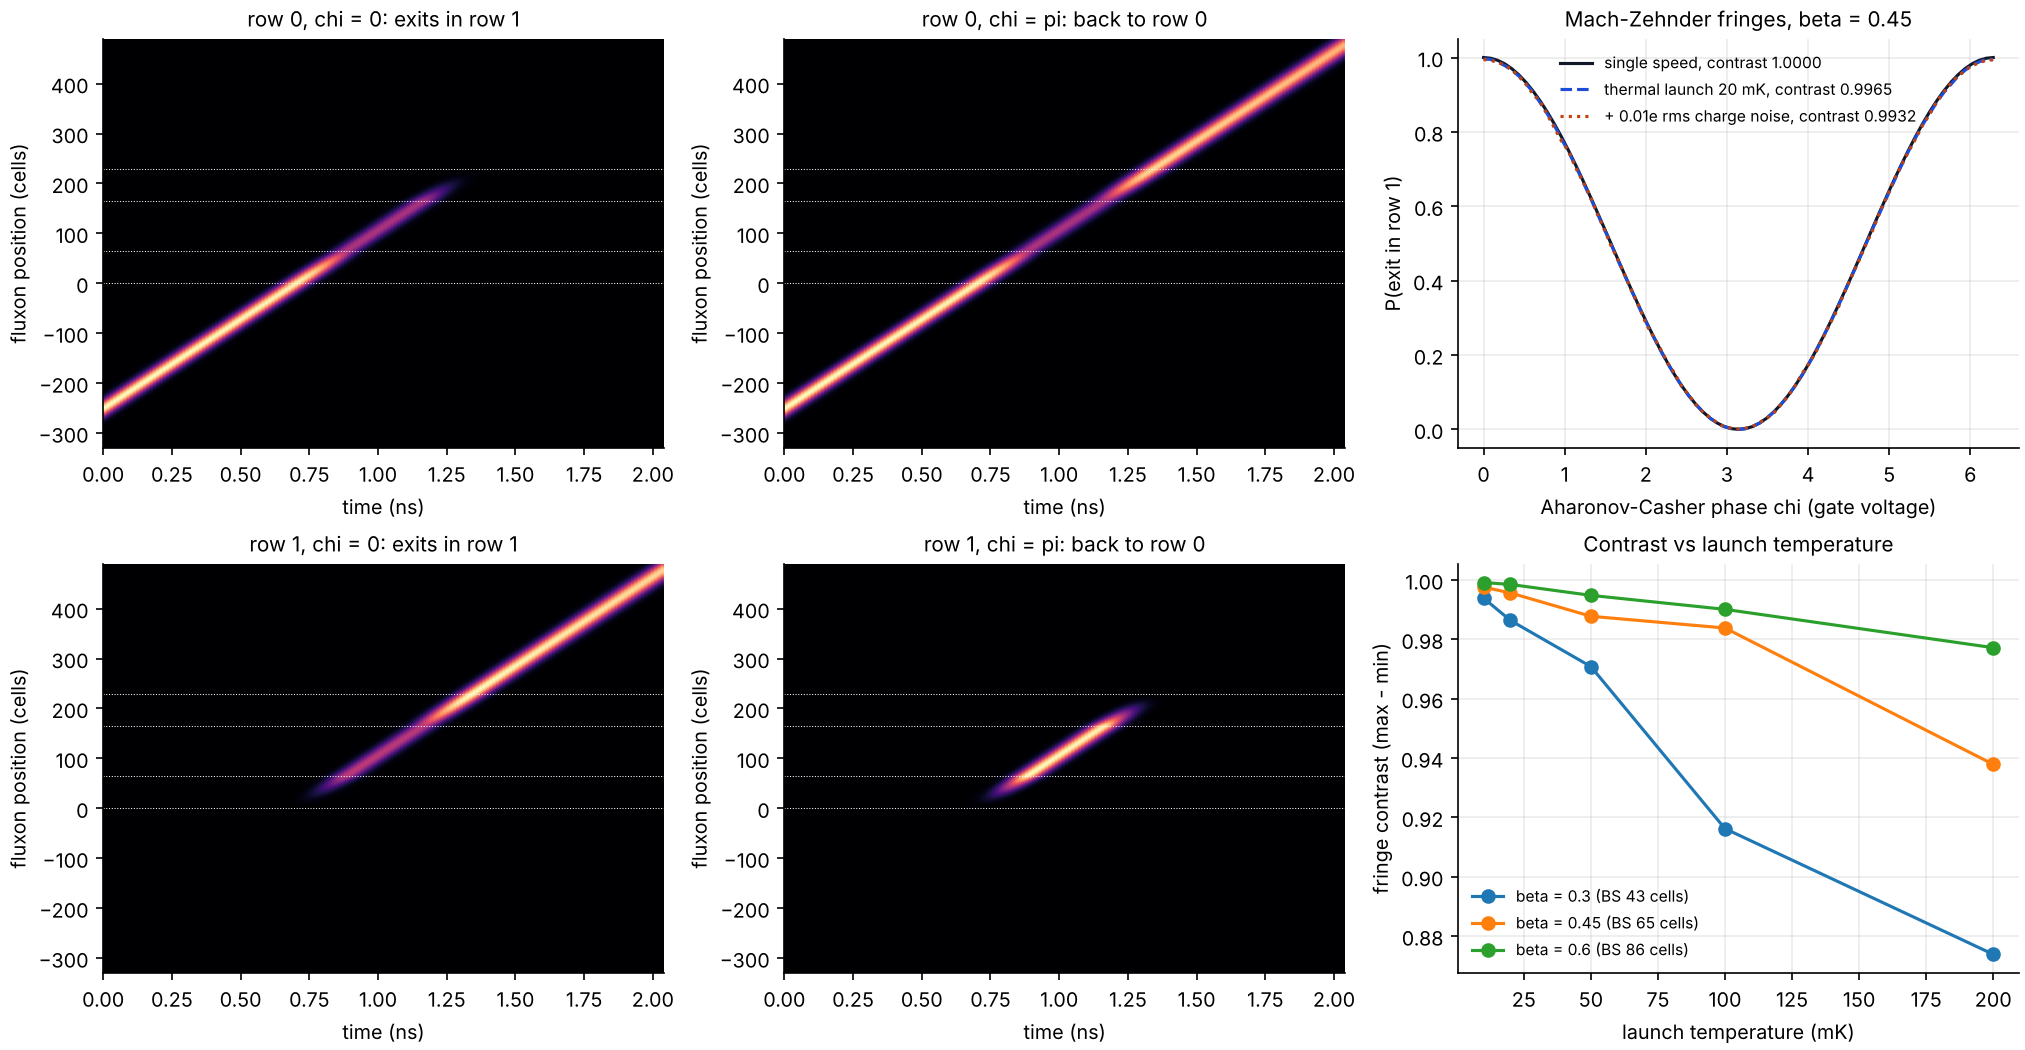
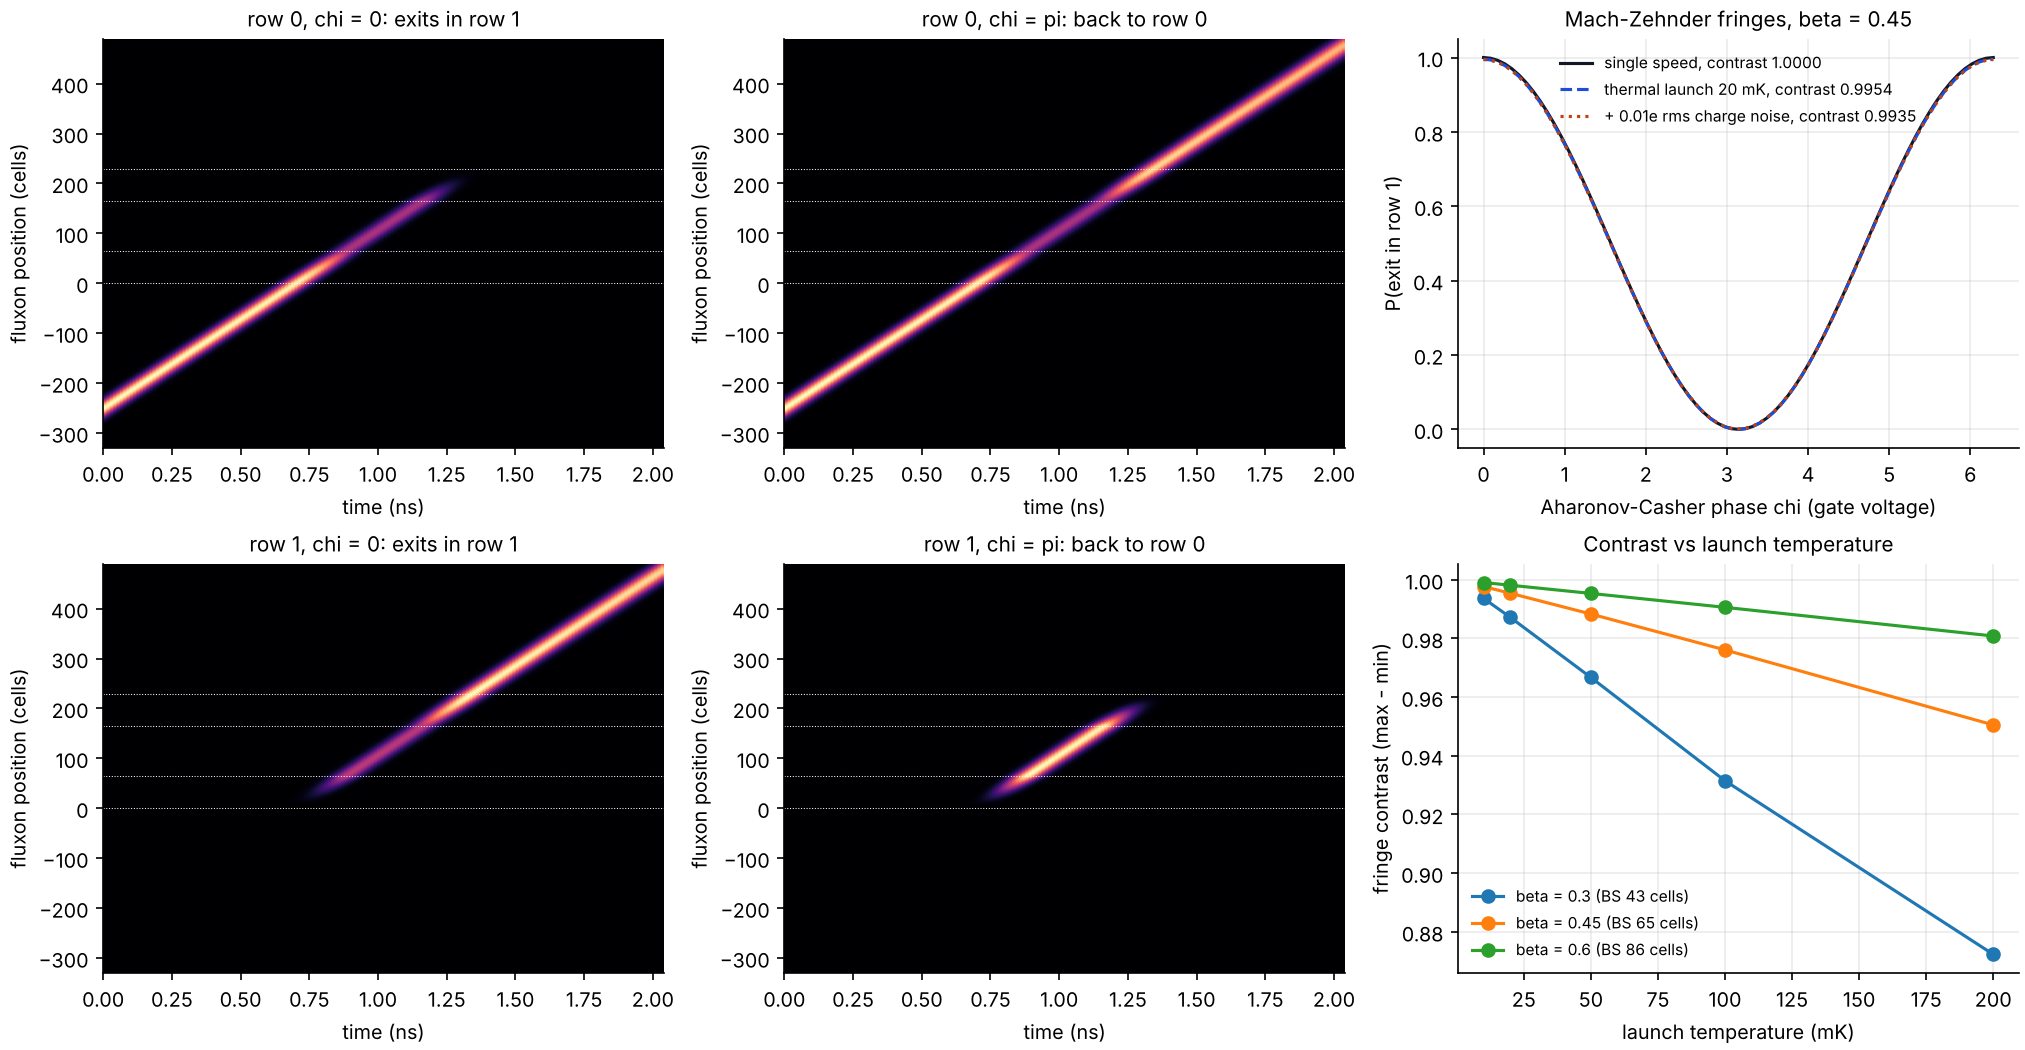
QBF-X2 companion 2: exact quadrature for the router fringe contrast
The thermal (and charge-noise) averages of the Mach-Zehnder fringes used a
60-80 sample Monte Carlo, whose sampling error (~1e-3) made the quoted 20 mK
contrast 0.9965 while the contrast-vs-temperature scan gave 0.9956 at the
same point. Both now use Gauss-Hermite quadrature (16 speed x 8 charge-noise
nodes; the dropped non-physical weight is recorded): 0.9954 at 20 mK, 0.9935
with 0.01e charge noise, confirmed independently with 24 x 12 nodes.

Claude-Session: https://claude.ai/code/session_01E9kwoWzrXajZvAqS1JwnLM

diff --git a/qbf-x2/simulations/companions/c2_router.py b/qbf-x2/simulations/companions/c2_router.py
@@ -84,17 +84,31 @@ split = [abs(transfer(b, 0.0, L, 0.0)[1, 0]) ** 2 for b in betas]
 # Mach-Zehnder fringes
 chis = np.linspace(0, 2 * math.pi, 73)
 ideal = [p_row1(BETA, c, L, GAP) for c in chis]
-rng = np.random.default_rng(1)
+GH_X, GH_W = np.polynomial.hermite_e.hermegauss(16)        # standard-normal quadrature: launch-speed spread
+GH_W = GH_W / GH_W.sum()
+GH_XC, GH_WC = np.polynomial.hermite_e.hermegauss(8)       # charge noise on chi
+GH_WC = GH_WC / GH_WC.sum()
+dropped = {}
 
 
-def thermal_avg(chi, T_K, n=200, sigma_chi=0.0):
-    s = model.thermal_beta_spread(BETA, T_K) * BETA
-    bs = BETA + s * rng.standard_normal(n)
-    return float(np.mean([p_row1(b, chi, L, GAP, sigma_chi=sigma_chi, rng=rng) for b in bs]))
+def thermal_avg(chi, T_K, beta=BETA, L_bs=None, sigma_chi=0.0):
+    """P(row 1) averaged over a Gaussian launch-speed spread (thermal source at T_K) and, optionally, Gaussian charge
+    noise on chi, by Gauss-Hermite quadrature. Deterministic: it replaces a 60-sample Monte Carlo average whose
+    sampling error in the contrast was ~1e-3. Nodes at non-physical speeds (beta <= 0 or >= 1) are dropped and the
+    weights renormalised; the dropped weight is recorded (largest 1.5e-5, beta 0.30 at 200 mK)."""
+    L_bs = L if L_bs is None else L_bs
+    s = model.thermal_beta_spread(beta, T_K) * beta
+    bn = beta + s * GH_X
+    keep = (bn > 0) & (bn < 1)
+    dropped[(beta, T_K)] = float(GH_W[~keep].sum())
+    wb = GH_W[keep] / GH_W[keep].sum()
+    cs, cw = (GH_XC * sigma_chi, GH_WC) if sigma_chi else (np.zeros(1), np.ones(1))
+    return float(sum(w * u * p_row1(b, chi + dc, L_bs, GAP)
+                     for b, w in zip(bn[keep], wb) for dc, u in zip(cs, cw)))
 
 
-th20 = [thermal_avg(c, 0.02, n=60) for c in chis]
-qn = [thermal_avg(c, 0.02, n=60, sigma_chi=2 * math.pi * 0.01) for c in chis]
+th20 = [thermal_avg(c, 0.02) for c in chis]
+qn = [thermal_avg(c, 0.02, sigma_chi=2 * math.pi * 0.01) for c in chis]
 
 
 def visibility(p):
@@ -107,15 +121,12 @@ Ts = [0.01, 0.02, 0.05, 0.1, 0.2]
 vis_T = {}
 for b in (0.30, 0.45, 0.60):
     Lb = bs_length(b)
-    vis_T[b] = []
-    for T in Ts:
-        s = model.thermal_beta_spread(b, T) * b
-        bs = b + s * rng.standard_normal(80)
-        pc = [float(np.mean([abs(transfer(bb, c, Lb, GAP)[1, 0]) ** 2 for bb in bs])) for c in (0.0, math.pi)]
-        vis_T[b].append(abs(pc[1] - pc[0]))
+    vis_T[b] = [abs(thermal_avg(0.0, T, beta=b, L_bs=Lb) - thermal_avg(math.pi, T, beta=b, L_bs=Lb)) for T in Ts]
 res["fringes"] = dict(chi=chis, ideal=ideal, thermal_20mK=th20, thermal_plus_charge_noise_0p01e=qn,
-                      contrast_ideal=visibility(ideal), contrast_20mK=visibility(th20), contrast_20mK_charge_noise=visibility(qn))
+                      contrast_ideal=visibility(ideal), contrast_20mK=visibility(th20), contrast_20mK_charge_noise=visibility(qn),
+                      averaging="Gauss-Hermite quadrature: 16 speed nodes x 8 charge-noise nodes")
 res["contrast_vs_T"] = {str(b): dict(T_K=Ts, contrast=v) for b, v in vis_T.items()}
+res["quadrature_dropped_weight_max"] = max(dropped.values())
 print("contrasts", res["fringes"]["contrast_ideal"], res["fringes"]["contrast_20mK"], res["fringes"]["contrast_20mK_charge_noise"])
 
 # ---------------------------------------------------------------- explicit wavepacket demonstration (split and recombine)

diff --git a/qbf-x2/README.md b/qbf-x2/README.md
@@ -61,7 +61,7 @@ both per cell.
 | # | Device | Result (simulated) | Verdict |
 |---|---|---|---|
 | 1 | Two-vortex Bell-pair chip (QFX-1 qubits, `../quantum_chip`) | Bell fidelity 0.9956 (T1 = 20 µs), 0.9976 (100 µs). Frequency-staggered double sweet spots; 6.6 ns exchange pulse | Works in simulation; no addressable entangled two-vortex processor was found in the literature |
-| 2 | Coherent ballistic fluxon router | A fluxon is split, carried on two rails and recombined. Fringe contrast 0.9965 for a thermal launch at 20 mK, 0.993 with 0.01e charge noise. Exit rail set by a gate voltage | Works in simulation; needs charge-stable beam-splitter islands |
+| 2 | Coherent ballistic fluxon router | A fluxon is split, carried on two rails and recombined. Fringe contrast 0.9954 for a thermal launch at 20 mK, 0.9935 with 0.01e charge noise. Exit rail set by a gate voltage | Works in simulation; needs charge-stable beam-splitter islands |
 | 3 | Reusable fluxon (mediator) gate | Conditional phase ≤ 0.077 rad and concurrence ≤ 0.04, even with overlapping couplers | **Negative result**: needs a coupling nonlinear in the qubit operators, or a mediator that is itself a qubit (as in QBF-X2) |
 | 4 | Reversible quantum-fluxon logic cell | Kinetic energy retained through the gate 99.997 % (couplers + collision); regenerative braking returns 99.1–99.4 % of it to the bias supply (98.7 % at alpha = 1e-5); ~10⁻²¹ J per CZ on chip (estimate) | Recovery simulated, not measured; no thermodynamic advantage claimed |
 | 5 | Fluxon QEC module | One syndrome-extraction cycle of a 3-qubit phase-flip code (density matrix). With a 10⁻³ CZ error it beats an unencoded qubit for memory errors of 1–10 % per cycle. With the 1.9 % budget error it never breaks even | Needs a gate error of about 10⁻³; full module not attempted |
